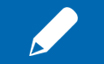
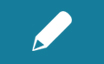
novos icones

Changed region(s): [[0.2596, 0.0938, 0.7788, 0.875], [0.6058, 0.7188, 0.6346, 0.75]]

diff --git a/Projeto1DAC/src/main/java/sd/com/br/gui/ambiente/funcionario/AmbienteFuncionario.java b/Projeto1DAC/src/main/java/sd/com/br/gui/ambiente/funcionario/AmbienteFuncionario.java
@@ -147,9 +147,9 @@ public class AmbienteFuncionario extends javax.swing.JFrame {
                 .addComponent(jBAtualizarSituacao, javax.swing.GroupLayout.PREFERRED_SIZE, 64, javax.swing.GroupLayout.PREFERRED_SIZE)
                 .addPreferredGap(javax.swing.LayoutStyle.ComponentPlacement.RELATED)
                 .addComponent(jBConfigurar, javax.swing.GroupLayout.PREFERRED_SIZE, 64, javax.swing.GroupLayout.PREFERRED_SIZE)
-                .addPreferredGap(javax.swing.LayoutStyle.ComponentPlacement.RELATED, 271, Short.MAX_VALUE)
+                .addPreferredGap(javax.swing.LayoutStyle.ComponentPlacement.RELATED, 282, Short.MAX_VALUE)
                 .addComponent(jBSair, javax.swing.GroupLayout.PREFERRED_SIZE, 64, javax.swing.GroupLayout.PREFERRED_SIZE)
-                .addGap(22, 22, 22))
+                .addContainerGap())
         );
 
         jPareaTroca.setBackground(new java.awt.Color(255, 255, 255));

diff --git a/Projeto1DAC/src/main/java/sd/com/br/gui/ambiente/prefeitura/AmbientePrefeitura.java b/Projeto1DAC/src/main/java/sd/com/br/gui/ambiente/prefeitura/AmbientePrefeitura.java
@@ -35,7 +35,7 @@ public class AmbientePrefeitura extends javax.swing.JFrame {
     public void iniciarBotoes(){
         Icon iconNovo = new ImageIcon("src/main/java/sd/com/br/gui/img/novoFuncionario.jpg");
         Icon iconRemover = new ImageIcon("src/main/java/sd/com/br/gui/img/removerFuncionario.jpg");
-        Icon iconListar = new ImageIcon("src/main/java/sd/com/br/gui/img/todosFuncionarios.jpg");
+        Icon iconListar = new ImageIcon("src/main/java/sd/com/br/gui/img/tudosFuncionarios.jpg");
         Icon iconConf = new ImageIcon("src/main/java/sd/com/br/gui/img/configuracoes.jpg");
         Icon iconLogo = new ImageIcon("src/main/java/sd/com/br/gui/img/logo.png");
         Icon iconSair = new ImageIcon("src/main/java/sd/com/br/gui/img/sair.jpg");
